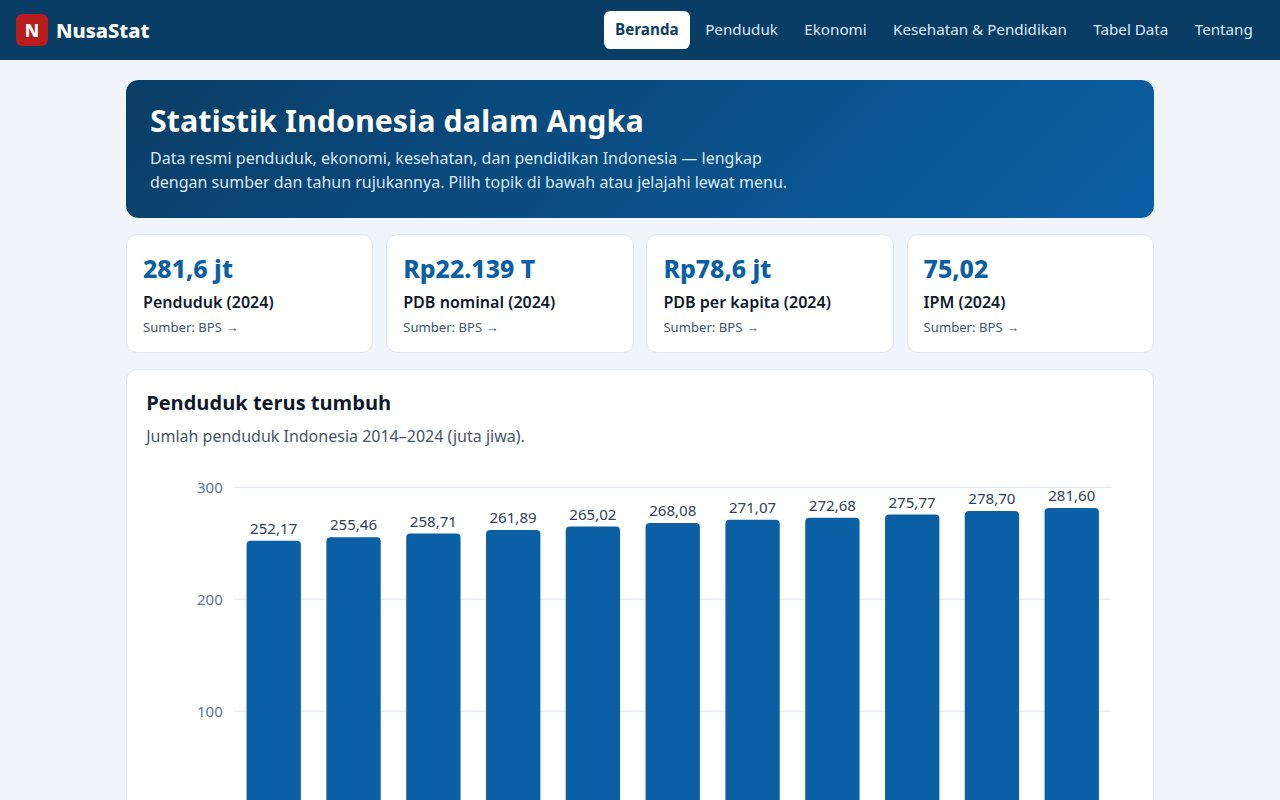
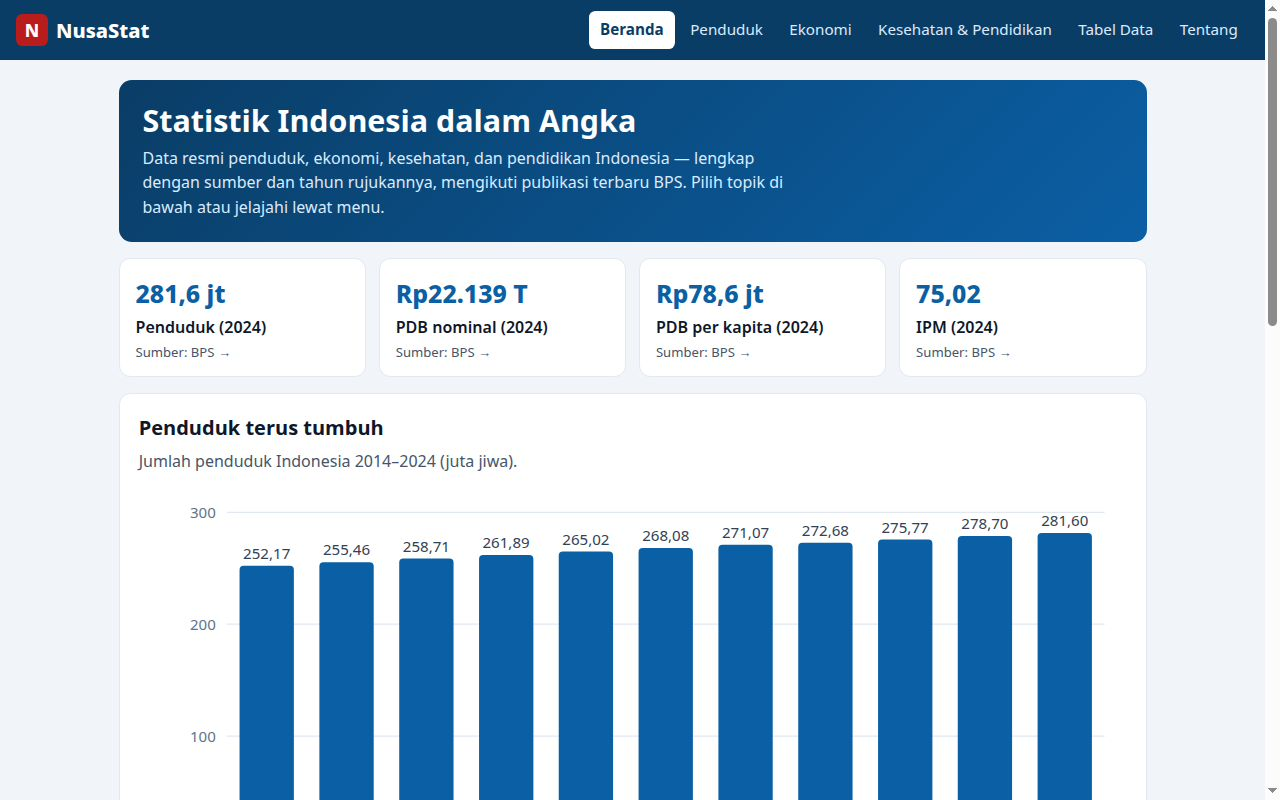
Revisi kecil fixer: sorotan inflasi + baris kosong pencarian provinsi, theme-color, fokus keyboard, MIME CSV, viewport phone 852

diff --git a/app/views.js b/app/views.js
@@ -1,6 +1,8 @@
 // views.js — perender halaman NusaStat.
 // Satu tugas: mengubah data (data.js) + grafik (charts.js) menjadi HTML tiap rute.
 // Semua angka datang dari data.js; tidak ada angka yang ditulis di sini.
+// Catatan: label sumbu grafik memakai formatId agar angka tampil mengikuti
+// penulisan Indonesia (koma desimal), sedangkan nilai mentah tetap apa adanya.
 
 import { YEARS, SERIES, STRUKTUR_UMUR, PROVINSI, KPI_2024, FAKTA, formatId } from './data.js';
 import { barChart, lineChart, hbarChart } from './charts.js';
@@ -36,18 +38,19 @@ export function viewHome() {
       <li><strong>IPM menembus 75,02</strong> pada 2024, naik dari 71,94 pada 2019. <span class="src-inline">BPS</span></li>
       <li><strong>Ekonomi tumbuh 5,03%</strong> pada 2024, stabil di atas 5% tiga tahun berturut-turut. <span class="src-inline">BPS</span></li>
       <li><strong>Pengangguran 4,91%</strong> pada Agustus 2024 — terendah sejak 2019. <span class="src-inline">BPS</span></li>
+      <li><strong>Inflasi hanya 1,57%</strong> pada 2024 — daya beli terjaga di tengah harga global yang bergejolak. <span class="src-inline">BPS</span></li>
     </ul>`;
   return `
     <div class="hero">
       <h1>Statistik Indonesia dalam Angka</h1>
-      <p>Data resmi penduduk, ekonomi, kesehatan, dan pendidikan Indonesia — lengkap dengan sumber dan tahun rujukannya. Pilih topik di bawah atau jelajahi lewat menu.</p>
+      <p>Data resmi penduduk, ekonomi, kesehatan, dan pendidikan Indonesia — lengkap dengan sumber dan tahun rujukannya, mengikuti publikasi terbaru BPS. Pilih topik di bawah atau jelajahi lewat menu.</p>
     </div>
     <div class="kpi-grid">${kpi}</div>
     ${section('Penduduk terus tumbuh', 'Jumlah penduduk Indonesia 2014–2024 (juta jiwa).',
       barChart(pointsOf('penduduk'), { title: 'Penduduk 2014–2024', color: '#0b5fa5', tickFmt: (v) => Math.round(v) }) + sourceNote('penduduk'))}
     ${section('Pertumbuhan ekonomi stabil', 'Pertumbuhan ekonomi tahunan 2019–2024 (% yoy).',
       lineChart(pointsOf('pertumbuhan'), { title: 'Pertumbuhan ekonomi 2019–2024', color: '#b91c1c', tickFmt: (v) => v.toFixed(0) + '%' }) + sourceNote('pertumbuhan'))}
-    ${section('Sorotan 2024', 'Empat kabar baik dari data terbaru.', sorotan)}`;
+    ${section('Sorotan 2024', 'Lima kabar baik dari data terbaru.', sorotan)}`;
 }
 
 export function viewPenduduk() {

diff --git a/app/main.js b/app/main.js
@@ -1,6 +1,8 @@
 // main.js — router hash + interaksi NusaStat.
 // Satu tugas: memuat halaman dari views.js ke #app dan mengikat semua kontrol
 // (pencarian provinsi, pengalih grafik, tabel data + unduh CSV) agar berfungsi.
+// Pencarian provinsi menampilkan baris "tidak ada hasil" saat tidak ada
+// provinsi yang cocok, supaya tabel tidak tampak kosong tanpa penjelasan.
 
 import { SERIES, YEARS, formatId } from './data.js';
 import { barChart, lineChart } from './charts.js';
@@ -36,12 +38,23 @@ function render() {
 function bindProvinsi() {
   const input = document.getElementById('cari-provinsi');
   if (!input) return;
-  const rows = Array.from(document.querySelectorAll('#tabel-provinsi tbody tr'));
+  const tbody = document.querySelector('#tabel-provinsi tbody');
+  const rows = Array.from(tbody.querySelectorAll('tr'));
+  // Baris kosong: muncul hanya bila tidak ada provinsi yang cocok dengan kata kunci.
+  const emptyRow = document.createElement('tr');
+  emptyRow.id = 'provinsi-kosong';
+  emptyRow.innerHTML = '<td colspan="4">Tidak ada provinsi yang cocok dengan pencarian.</td>';
+  emptyRow.style.display = 'none';
+  tbody.appendChild(emptyRow);
   input.addEventListener('input', () => {
     const q = input.value.trim().toLowerCase();
+    let visible = 0;
     rows.forEach((r) => {
-      r.style.display = r.textContent.toLowerCase().includes(q) ? '' : 'none';
+      const show = r.textContent.toLowerCase().includes(q);
+      r.style.display = show ? '' : 'none';
+      if (show) visible++;
     });
+    emptyRow.style.display = visible === 0 ? '' : 'none';
   });
 }
 

diff --git a/app/style.css b/app/style.css
@@ -19,6 +19,11 @@ body {
   line-height: 1.55;
 }
 a { color: var(--biru); }
+/* Fokus keyboard yang jelas untuk tautan, tombol, dan kontrol formulir. */
+a:focus-visible, button:focus-visible, input:focus-visible, select:focus-visible {
+  outline: 3px solid var(--biru);
+  outline-offset: 2px;
+}
 h1 { font-size: 1.9rem; margin: 0 0 .4rem; line-height: 1.2; }
 h2 { font-size: 1.25rem; margin: 0 0 .35rem; }
 .lead { font-size: 1.08rem; color: var(--abu); max-width: 62ch; }
@@ -80,6 +85,8 @@ footer a { color: var(--abu); }
 .chart { width: 100%; height: auto; display: block; }
 .src { font-size: .85rem; color: var(--abu); margin: .6rem 0 0; }
 .src-inline { font-size: .82rem; color: var(--abu); }
+/* Baris "tidak ada hasil" pada pencarian provinsi: miring, rata tengah, abu-abu. */
+#provinsi-kosong td { font-style: italic; text-align: center; color: var(--abu); }
 .table-wrap { overflow-x: auto; }
 table { width: 100%; border-collapse: collapse; font-size: .95rem; }
 th, td { text-align: left; padding: .5rem .6rem; border-bottom: 1px solid var(--garis); }

diff --git a/app/index.html b/app/index.html
@@ -5,6 +5,7 @@
 <meta name="viewport" content="width=device-width, initial-scale=1">
 <title>NusaStat — Statistik Indonesia dalam Angka</title>
 <meta name="description" content="Statistik Indonesia dalam angka: penduduk, ekonomi, kesehatan, dan pendidikan — data resmi BPS dan World Bank.">
+<meta name="theme-color" content="#0a3d66">
 <link rel="stylesheet" href="style.css">
 <script type="module" src="main.js"></script>
 </head>
@@ -23,7 +24,7 @@
 </header>
 <main id="app"></main>
 <footer>
-  <p>NusaStat — Statistik Indonesia dalam Angka · Data: BPS (Statistics Indonesia) dan World Bank · Dibangun untuk make.fun, November 2026</p>
+  <p>NusaStat — Statistik Indonesia dalam Angka · Data: BPS (Statistics Indonesia) dan World Bank · Dibangun untuk make.fun, November 2026 · Setiap angka memakai tahun rujukan yang tercantum di halamannya</p>
   <p><a href="#/tentang">Tentang &amp; sumber data</a> · <a href="#/data">Unduh data (CSV)</a></p>
 </footer>
 </body>

diff --git a/serve.ts b/serve.ts
@@ -2,7 +2,7 @@
 // Menjalankan: node serve.ts  →  app/ di http://localhost:8080
 //              node serve.ts --port 9000  →  port lain.
 // Hanya menyajikan berkas di bawah app/, menolak path di luarnya, dan mengirim
-// MIME type yang benar untuk HTML, JS, CSS, JSON, dan gambar.
+// MIME type yang benar untuk HTML, JS, CSS, JSON, CSV, dan gambar.
 
 import { createReadStream, statSync } from 'node:fs';
 import { createServer } from 'node:http';
@@ -21,6 +21,8 @@ const TYPES = {
   '.mjs': 'text/javascript; charset=utf-8',
   '.css': 'text/css; charset=utf-8',
   '.json': 'application/json; charset=utf-8',
+  '.csv': 'text/csv; charset=utf-8',
+  '.txt': 'text/plain; charset=utf-8',
   '.svg': 'image/svg+xml',
   '.png': 'image/png',
   '.jpg': 'image/jpeg',
